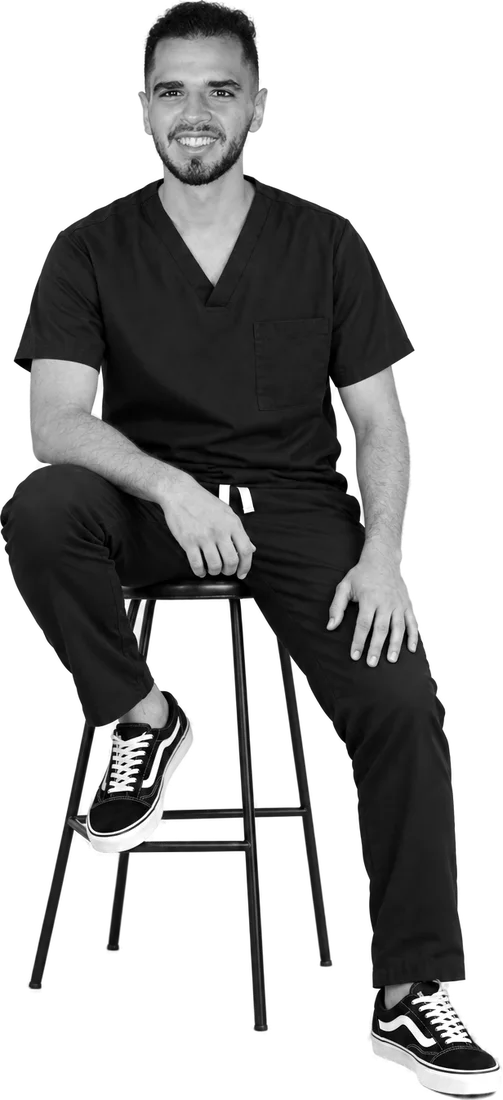
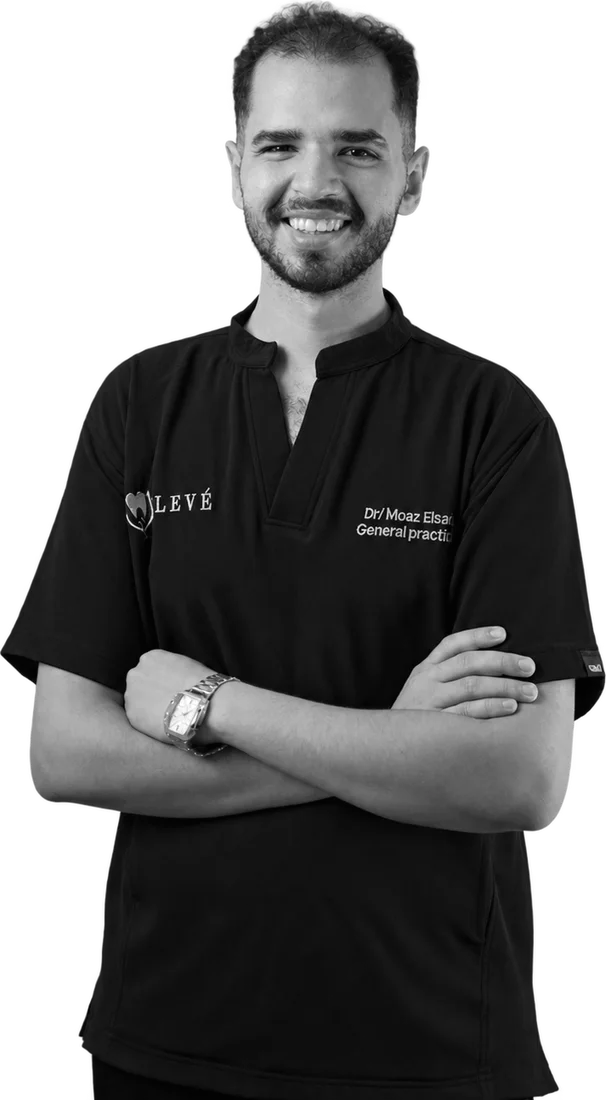
Add files via upload

diff --git a/index.html b/index.html
@@ -1057,8 +1057,8 @@ const DOCTORS = [
   en:{l1:"Dr. Hesham", l2:"Mostafa", role:"Master’s Degree in Prosthodontics · Fellow of the Royal College in England", bio:"Focuses on aesthetic restorative dentistry, veneer treatments and smile design, combining dental function with refined aesthetic results."},
   ar:{l1:"د. هشام", l2:"مصطفى", role:"ماجستير التركيبات · زميل الكلية الملكية بإنجلترا", bio:"يركّز على طب الأسنان التجميلي والترميمي وعلاجات الفينير وتصميم الابتسامة، بالجمع بين وظيفة الأسنان ونتيجة جمالية راقية."}},
  {img:"moaz", script:"Moaz",
-  en:{l1:"Dr.", l2:"Moaz", role:"Dentist", bio:""},
-  ar:{l1:"د.", l2:"معاذ", role:"طبيب أسنان", bio:""}},
+  en:{l1:"Dr. Moaz", l2:"Elsbagh", role:"General Practitioner", bio:""},
+  ar:{l1:"د. معاذ", l2:"الصباغ", role:"طبيب ممارس عام", bio:""}},
  {img:"gamal", script:"Mohamed",
   en:{l1:"Dr. Mohamed", l2:"Gamal", role:"General Dentist", bio:"Provides everyday dental care, from check-ups and cleaning to fillings, to keep your teeth healthy."},
   ar:{l1:"د. محمد", l2:"جمال", role:"طبيب أسنان عام", bio:"يقدّم رعاية الأسنان اليومية، من الكشف والتنظيف للحشوات، علشان أسنانك تفضل سليمة."}},
